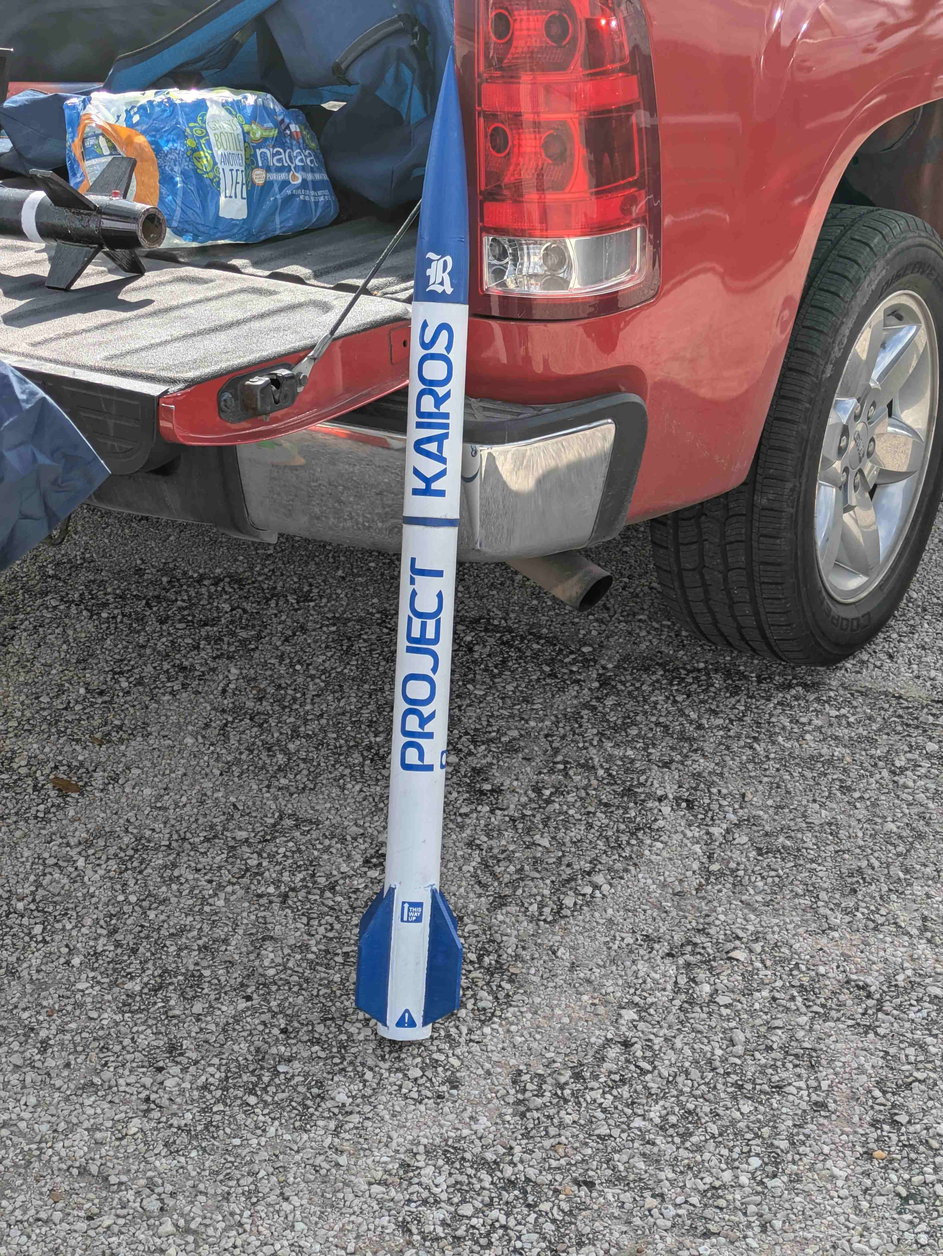
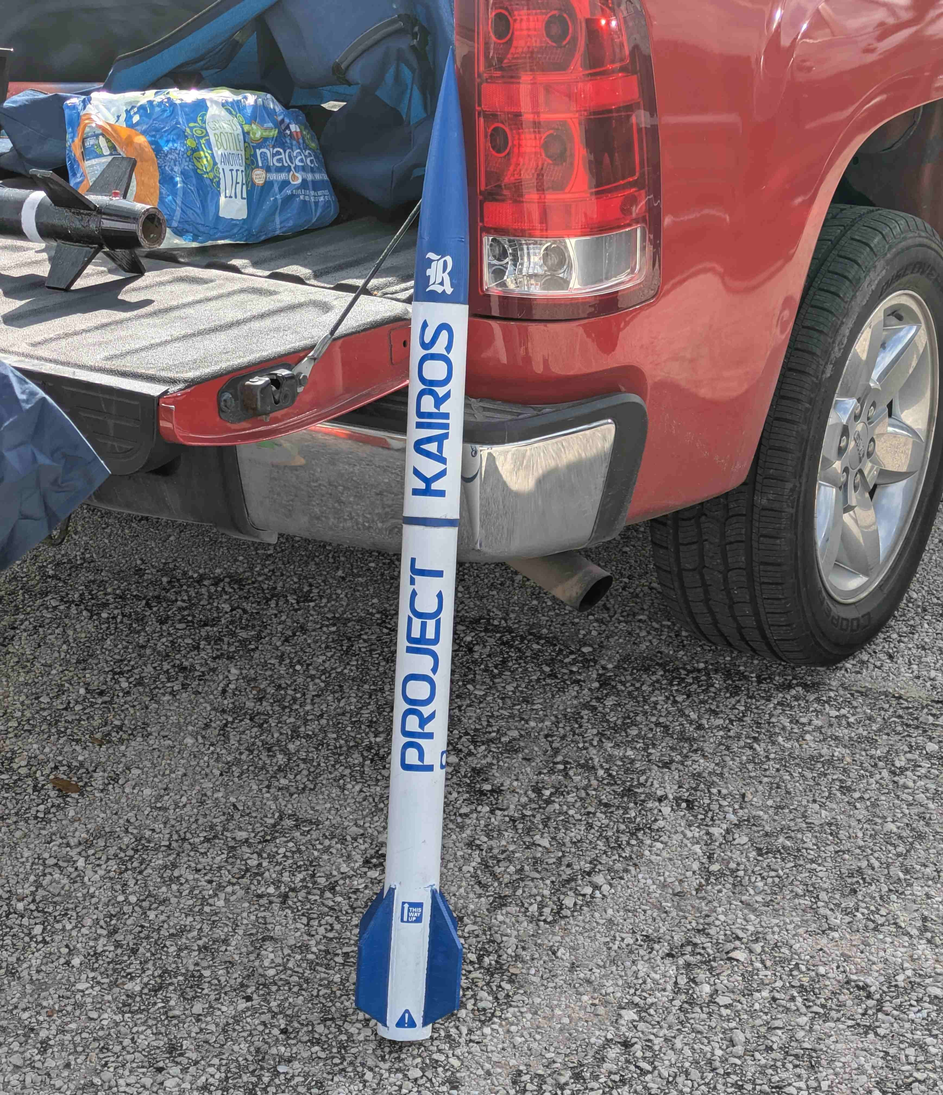
updates

diff --git a/_projects/avio.md b/_projects/avio.md
@@ -8,11 +8,9 @@ category:
 related publications: false
 ---
 
-I had exactly two weeks to design and build a custom flight computer for my Level 1 high-power certification rocket. 
+I had exactly two weeks to design and build a custom flight computer for my Level 1 high-power certification rocket. I wanted a custom RP2040-based flight computer transmitting telemetry data over LoRa, logging at 20 Hz to a μSD card, and updating a live 3D tracker in Google Earth. Here is how I went from cardboard prototypes to flying my avionics system in 14 days.
 
-I wanted a custom RP2040-based flight computer transmitting telemetry data over LoRa, logging at 20 Hz to a μSD card, and updating a live, 3D tracker in Google Earth. Here is how I went from cardboard prototypes to flying my avionics system in 14 days.
-
-[Skip to the launch](https://wilsonharper.net/projects/avio/#launch)
+[**Skip to the launch**](https://wilsonharper.net/projects/avio/#launch)
 
 
 <div class="row">
@@ -70,8 +68,9 @@ And:
 Let's do it!
 
 
-<div class="row">
-    <div class="col-sm mt-3 mt-md-0">
+
+<div class="row justify-content-sm-center">
+    <div class="col-sm-6 mt-3 mt-md-0">
         {% include figure.liquid loading="eager" path="assets/img/l1/IMG_5282.png" title=" " class="img-fluid rounded z-depth-1" %}
     </div>
 </div>
@@ -153,15 +152,13 @@ I wanted to get a sense of space in the real world before I dove into any CAD. B
 
 After that first design, I did some actual CAD. Big thanks to [Ian Hsieh](https://www.linkedin.com/in/ian-hsieh-b67457216/) for helping out. In terms of component placement, I knew the GPS antenna would need to be away from noisy or RF-opaque materials. Similarly, the 915 MHz LoRa antenna needed to be away from the two M5 threaded rods to avoid shielding and unpredictable reflections. The accelerometer/magnetometer also needed to be away from large metal objects and high-current wires. 
 
-<div class="row mt-5">
-    <div class="col-sm mt-3 mt-md-0">
-        {% include figure.liquid loading="lazy" path="assets/img/l1/cad1.png" title=" " class="img-fluid rounded z-depth-1" %}
+
+<div class="row justify-content-sm-center">
+    <div class="col-sm-8 mt-3 mt-md-0">
+        {% include figure.liquid path="assets/img/l1/cad1.png" title=" " class="img-fluid rounded z-depth-1" %}
     </div>
-    <div class="col-sm mt-3 mt-md-0">
-        {% include figure.liquid loading="lazy" path="assets/img/l1/cad2.png" title=" " class="img-fluid rounded z-depth-1" %}
-    </div>
-    <div class="col-sm mt-3 mt-md-0">
-        {% include figure.liquid loading="lazy" path="assets/img/l1/cad3.png" title=" " class="img-fluid rounded z-depth-1" %}
+    <div class="col-sm-4 mt-3 mt-md-0">
+        {% include figure.liquid path="assets/img/l1/cad2.png" title=" " class="img-fluid rounded z-depth-1" %}
     </div>
 </div>
 
@@ -263,9 +260,6 @@ Wiring took a bit longer. Here are some in-progress photos:
 
 <div class="row mt-5">
     <div class="col-sm mt-3 mt-md-0">
-        {% include figure.liquid loading="lazy" path="assets/img/l1/PXL_20260314_030258371.jpg" title=" " class="img-fluid rounded z-depth-1" %}
-    </div>
-    <div class="col-sm mt-3 mt-md-0">
         {% include figure.liquid loading="lazy" path="assets/img/l1/PXL_20260314_030319848.jpg" title=" " class="img-fluid rounded z-depth-1" %}
     </div>
     <div class="col-sm mt-3 mt-md-0">
@@ -302,16 +296,22 @@ Because I wanted a structure that wasn't too reliant on the cardboard body tubes
 
 ##### Upper Body Tube Assembly
 
+The basic idea with the upper body tube is that the avionics bay slides on rails attached to the nose cone, which then slides in the packing tube.
+
+
+
 <div class="row justify-content-sm-center">
-    <div class="col-sm mt-3 mt-md-0">
+    <div class="col-sm-6 mt-3 mt-md-0">
         {% include figure.liquid loading="lazy" path="assets/img/l1/PXL_20260319_124603149.jpg" title=" " class="img-fluid rounded z-depth-1" %}
     </div>
 </div>
 
+
 First, the avionics sled slides onto two M5 threaded rods connected to the nose cone:
 
+
 <div class="row justify-content-sm-center">
-    <div class="col-sm mt-3 mt-md-0">
+    <div class="col-sm-6 mt-3 mt-md-0">
         {% include figure.liquid loading="lazy" path="assets/img/l1/PXL_20260319_124549839.jpg" title=" " class="img-fluid rounded z-depth-1" %}
     </div>
 </div>
@@ -319,36 +319,36 @@ First, the avionics sled slides onto two M5 threaded rods connected to the nose 
 It gets secured in place:
 
 <div class="row justify-content-sm-center">
-    <div class="col-sm mt-3 mt-md-0">
+    <div class="col-sm-6 mt-3 mt-md-0">
         {% include figure.liquid loading="lazy" path="assets/img/l1/PXL_20260319_124539323.jpg" title=" " class="img-fluid rounded z-depth-1" %}
     </div>
 </div>
 
 The upper body tube slides over the entire assembly:
 
+
 <div class="row justify-content-sm-center">
-    <div class="col-sm mt-3 mt-md-0">
+    <div class="col-sm-6 mt-3 mt-md-0">
         {% include figure.liquid loading="lazy" path="assets/img/l1/PXL_20260319_124517896.jpg" title=" " class="img-fluid rounded z-depth-1" %}
     </div>
 </div>
 
+
 This "half-coupler" slides into the upper body tube and is lightly held in place by the earlier M5 nuts.
 
 <div class="row justify-content-sm-center">
-    <div class="col-sm mt-3 mt-md-0">
+    <div class="col-sm-6 mt-3 mt-md-0">
         {% include figure.liquid loading="lazy" path="assets/img/l1/PXL_20260319_124440946.jpg" title=" " class="img-fluid rounded z-depth-1" %}
     </div>
 </div>
 
-
 Finally, the bulkhead is screwed in and the full upper body is done.
 
 <div class="row justify-content-sm-center">
-    <div class="col-sm mt-3 mt-md-0">
-        {% include figure.liquid loading="lazy" path="assets/img/l1/PXL_20260319_124423608.jpg" title=" " class="img-fluid rounded z-depth-1" %}
+    <div class="col-sm-6 mt-3 mt-md-0">
+        {% include figure.liquid loading="lazy" path="assets/img/l1/assets/img/l1/PXL_20260319_124423608.jpg" title=" " class="img-fluid rounded z-depth-1" %}
     </div>
 </div>
-
 
 ##### Making a Livery
 

diff --git a/_projects/adsb.md b/_projects/adsb.md
@@ -339,6 +339,7 @@ I recently found a 10.5" 1080p monitor for free in Rice's [OEDK](https://oedk.ri
         {% include figure.liquid path="assets/img/adsb/PXL_20260131_224922739.jpg" title=" " class="img-fluid rounded z-depth-1" %}
     </div>
 </div>
+
 ---
 
 ## Conclusion
